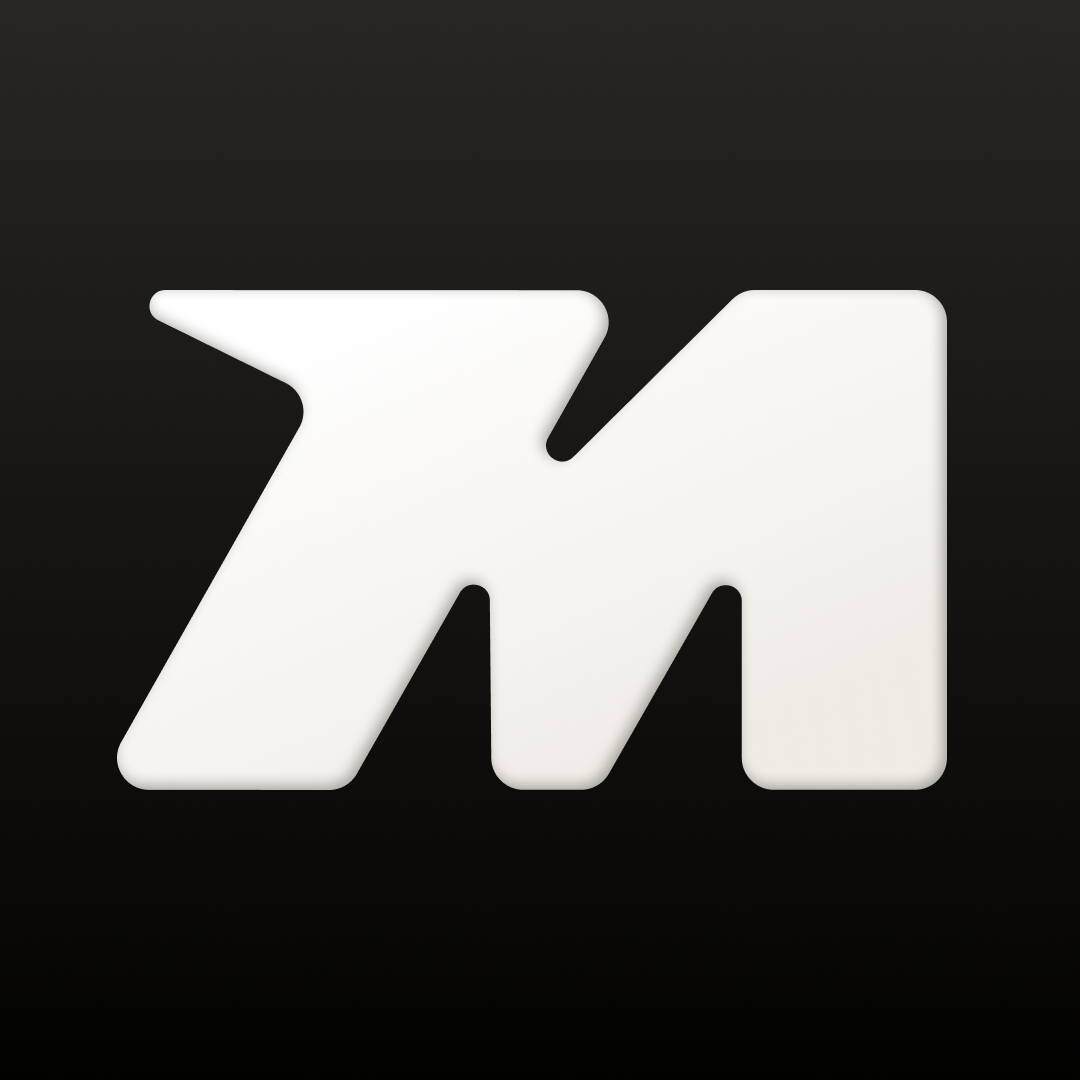
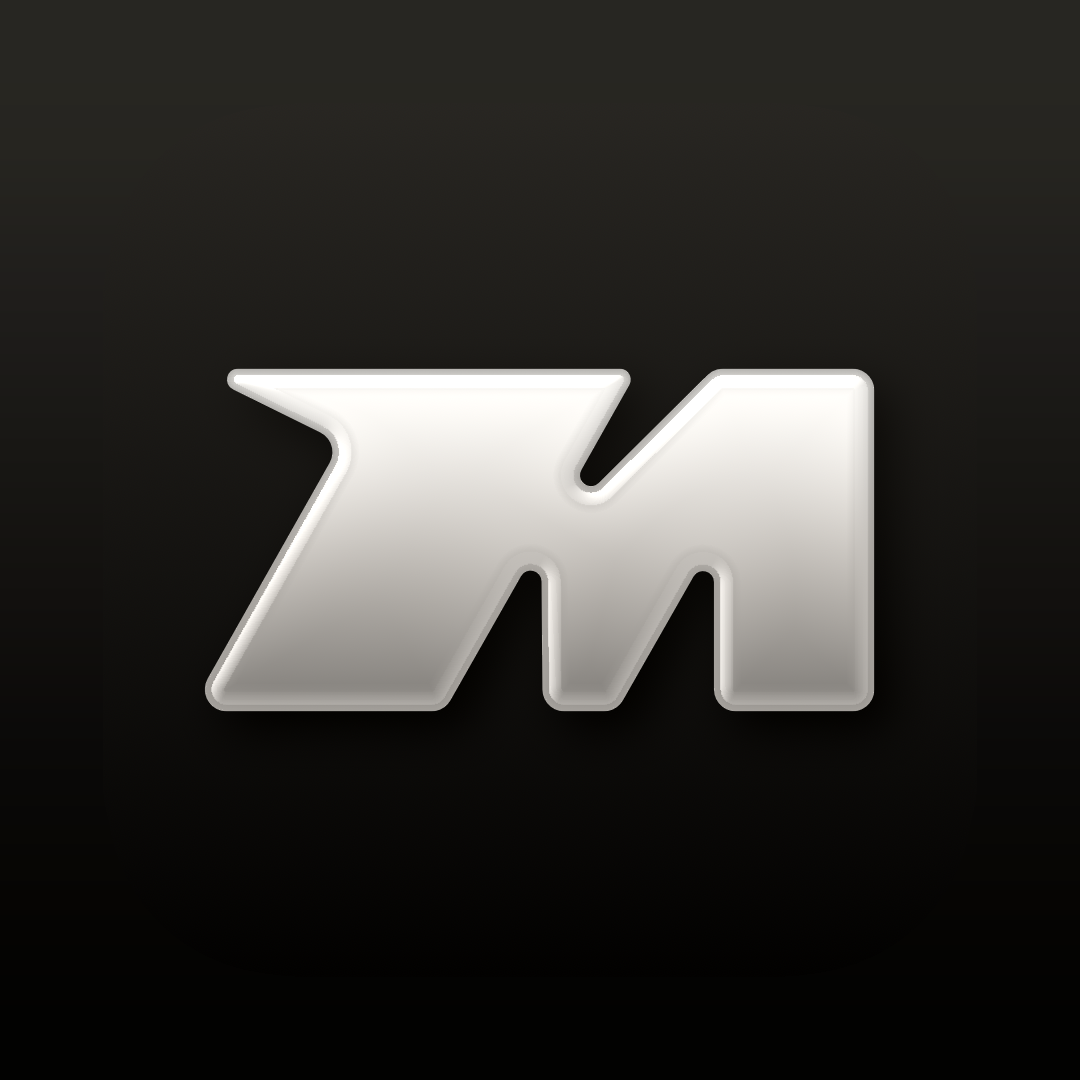
Landing: glowing platform top, front hose port, Claude clear of the platform
Steps 1-2 sit lower; mobile stepper up to the top edge; hose sags into a
port on the front rim 6° right of centre (only shown on the agents
step); Claude moved forward so the platform no longer clips him, and he
scales in/out with the hose instead of popping. New apple-touch icon
from materialize-apple-touch-icon.icon.

Changed region(s): [[0.0917, 0.2444, 0.8861, 0.7333]]

diff --git a/components/landing/holo-platform.tsx b/components/landing/holo-platform.tsx
@@ -18,8 +18,8 @@ import { agentClock } from "./agent-timeline";
  */
 
 const TOP = 0.228;
-/** Rim port, platform space: back-left, on the lower band. */
-const PORT_ANGLE = Math.PI * 1.18;
+/** Rim port, platform space: the front, 6° right of centre, lower band. */
+const PORT_ANGLE = -Math.PI / 2 + (6 * Math.PI) / 180;
 const PORT_Y = 0.07;
 export const PORT_LOCAL = new THREE.Vector3(
   Math.cos(PORT_ANGLE) * 1.0,
@@ -102,7 +102,7 @@ const GLASS_FRAG = /* glsl */ `
     float ripple = exp(-pow((r - uPulse * 1.6) * 7.0, 2.0)) * exp(-uPulse * 2.2);
     // A gentle, even glow across the whole disc; the detail barely rides
     // on it, so it reads as one lit plane, not a hot spot.
-    float a = (0.2 + rings + sweep + ripple * 0.12) * (1.0 - smoothstep(0.97, 1.0, r));
+    float a = (0.62 + rings + sweep + ripple * 0.12) * (1.0 - smoothstep(0.97, 1.0, r));
     gl_FragColor = vec4(vec3(1.0, 0.52, 0.18) * a * uGlow, a * uGlow);
   }
 `;
@@ -135,6 +135,7 @@ export function HoloPlatform({
 }) {
   const groupRef = useRef<THREE.Group>(null);
   const ringRef = useRef<THREE.Mesh>(null);
+  const portRef = useRef<THREE.Group>(null);
   const clock = useRef(0);
 
   const g = useMemo(
@@ -179,6 +180,13 @@ export function HoloPlatform({
     uniforms.uPulse.value = agentClock.sinceArrival;
     // Same brightness on every step.
     uniforms.uGlow.value = 1;
+    // The port only exists for the agents step's hose; it sits on the
+    // front rim, so elsewhere it would read as a stray nub.
+    const port = portRef.current;
+    if (port) {
+      port.visible = f.agent > 0.01;
+      port.scale.setScalar(Math.max(f.agent, 1e-3));
+    }
     const ring = ringRef.current;
     if (ring) {
       const flash = Math.exp(-agentClock.sinceArrival * 3.5);
@@ -225,18 +233,20 @@ export function HoloPlatform({
         </mesh>
         {/* Rim port: a small flush boss the hose plugs into. */}
         <group position={PORT_LOCAL.toArray()} rotation={[0, PORT_ANGLE, 0]}>
-          <mesh rotation={[0, 0, Math.PI / 2]} position={[0.012, 0, 0]}>
-            <cylinderGeometry args={[0.05, 0.056, 0.03, 32]} />
-            <meshStandardMaterial
-              color="#8d9198"
-              metalness={1}
-              roughness={0.28}
-            />
-          </mesh>
-          <mesh rotation={[0, 0, Math.PI / 2]} position={[0.028, 0, 0]}>
-            <cylinderGeometry args={[0.03, 0.03, 0.006, 24]} />
-            <meshStandardMaterial color="#0e0f12" roughness={0.6} />
-          </mesh>
+          <group ref={portRef}>
+            <mesh rotation={[0, 0, Math.PI / 2]} position={[0.012, 0, 0]}>
+              <cylinderGeometry args={[0.05, 0.056, 0.03, 32]} />
+              <meshStandardMaterial
+                color="#8d9198"
+                metalness={1}
+                roughness={0.28}
+              />
+            </mesh>
+            <mesh rotation={[0, 0, Math.PI / 2]} position={[0.028, 0, 0]}>
+              <cylinderGeometry args={[0.03, 0.03, 0.006, 24]} />
+              <meshStandardMaterial color="#0e0f12" roughness={0.6} />
+            </mesh>
+          </group>
         </group>
       </group>
     </group>

diff --git a/components/landing/agent-desk.tsx b/components/landing/agent-desk.tsx
@@ -215,10 +215,10 @@ export function AgentDesk({
     const appear = THREE.MathUtils.smoothstep(w, 0, 1);
 
     const desk = deskRef.current!;
-    desk.position
-      .copy(f.desk)
-      .add(new THREE.Vector3(0, (1 - appear) * -0.2 * u, 0));
-    desk.scale.setScalar(u * (0.85 + 0.15 * appear));
+    // Grows in from / shrinks to nothing in place, in step with the hose
+    // fade — never a hard pop at the end of the transition.
+    desk.position.copy(f.desk);
+    desk.scale.setScalar(u * Math.max(appear, 1e-3));
 
     // ── Hose into the platform's rim port (rebuilt when either end moves) ──
     const port = platformPort(f, portScratch);
@@ -476,8 +476,8 @@ function easeInOutSine(x: number): number {
   return -(Math.cos(Math.PI * x) - 1) / 2;
 }
 /**
- * Hose from the laptop's side, looping BACK behind the mascot, then round
- * to the platform's rim port, arriving straight on (along the port's
+ * Hose from the laptop's side, sagging down and across into the port on
+ * the platform's front rim, arriving straight on (along the port's
  * outward axis) so it reads as plugged in. The collar sits on the port.
  */
 function layoutHose(
@@ -498,14 +498,11 @@ function layoutHose(
   const curve = new THREE.CatmullRomCurve3(
     [
       start,
-      // Back and a little down, behind him…
+      // Down off the desk in a lazy sag…
       start
         .clone()
-        .add(new THREE.Vector3(0.1 * span, -0.12 * span, -0.45 * span)),
-      // …round toward the platform…
-      entry
-        .clone()
-        .add(new THREE.Vector3(-0.2 * span, -0.18 * span, -0.25 * span)),
+        .lerp(entry, 0.4)
+        .add(new THREE.Vector3(0, -0.22 * span, 0.12 * span)),
       // …and straight into the port.
       entry.clone().addScaledVector(port.dir, 0.25 * span),
       entry,

diff --git a/components/landing/choreography.ts b/components/landing/choreography.ts
@@ -248,16 +248,16 @@ export function layoutFor(view: View): Layout {
     // Very wide + short (a phone on its side): the copy owns the left
     // half, so every step's stage shifts right, clear of it.
     t0: portrait
-      ? new Vector3(0, view.h * 0.1, 0)
+      ? new Vector3(0, view.h * 0.03, 0)
       : wide
         ? new Vector3(0, view.h * 0.06, 0)
-        : new Vector3(0, view.h * 0.02, 0),
+        : new Vector3(0, -view.h * 0.03, 0),
     s2,
     t2: portrait
-      ? new Vector3(0, view.h * 0.2, 0)
+      ? new Vector3(0, view.h * 0.12, 0)
       : wide
         ? new Vector3(0, view.h * 0.06, 0)
-        : new Vector3(0, view.h * 0.05, 0),
+        : new Vector3(0, view.h * 0.0, 0),
     // Agents step: pulled back to show the whole printer platform with
     // the device on it. Desktop: platform right of centre, the mascot
     // left and a little below centre, his hose looping back to it.
@@ -269,10 +269,10 @@ export function layoutFor(view: View): Layout {
         : new Vector3(0, view.h * 0.1, 0),
     sA: s0 * (portrait ? 0.42 : wide ? 0.34 : 0.5),
     desk: portrait
-      ? new Vector3(-view.w * 0.2, view.h * 0.05, 0.4)
+      ? new Vector3(-view.w * 0.2, view.h * 0.04, view.h * 0.3)
       : wide
         ? new Vector3(-view.w * 0.14, -view.h * 0.08, 0)
-        : new Vector3(-view.w * 0.17, -view.h * 0.1, 0),
+        : new Vector3(-view.w * 0.17, -view.h * 0.1, view.h * 0.15),
     agentUnit: portrait
       ? Math.min(view.w * 0.24, view.h * 0.11)
       : wide

diff --git a/components/landing/landing-hero.tsx b/components/landing/landing-hero.tsx
@@ -197,7 +197,7 @@ export function StepCarousel() {
   const prev = usePreviousStep(step);
 
   return (
-    <div className="pointer-events-none absolute inset-x-0 top-[calc(4.5rem+env(safe-area-inset-top,0px))] z-10 flex justify-center nav:top-auto nav:bottom-8">
+    <div className="pointer-events-none absolute inset-x-0 top-[calc(1rem+env(safe-area-inset-top,0px))] z-10 flex justify-center nav:top-auto nav:bottom-8">
       <div
         className="flex items-center gap-1.5"
         role="group"
